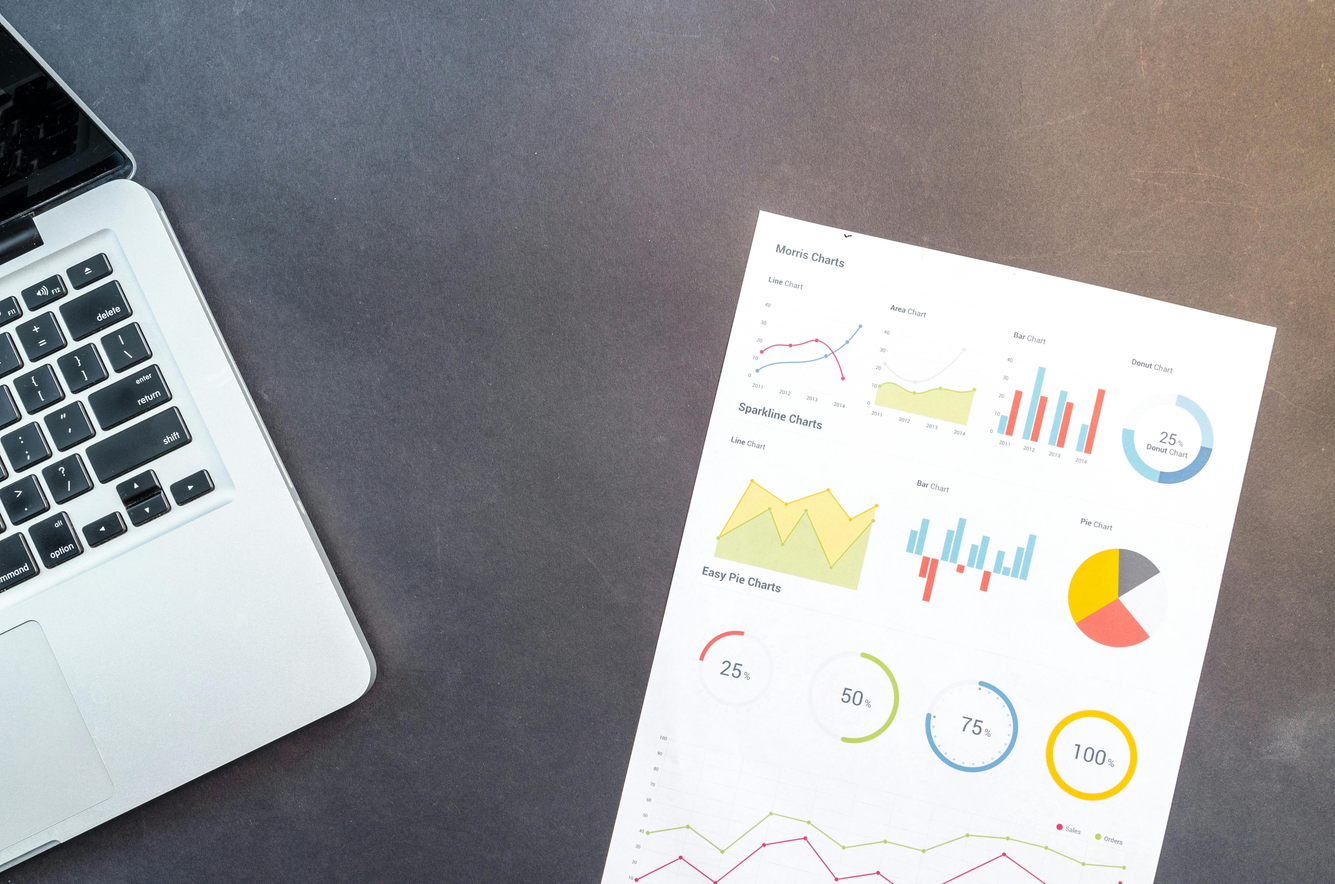
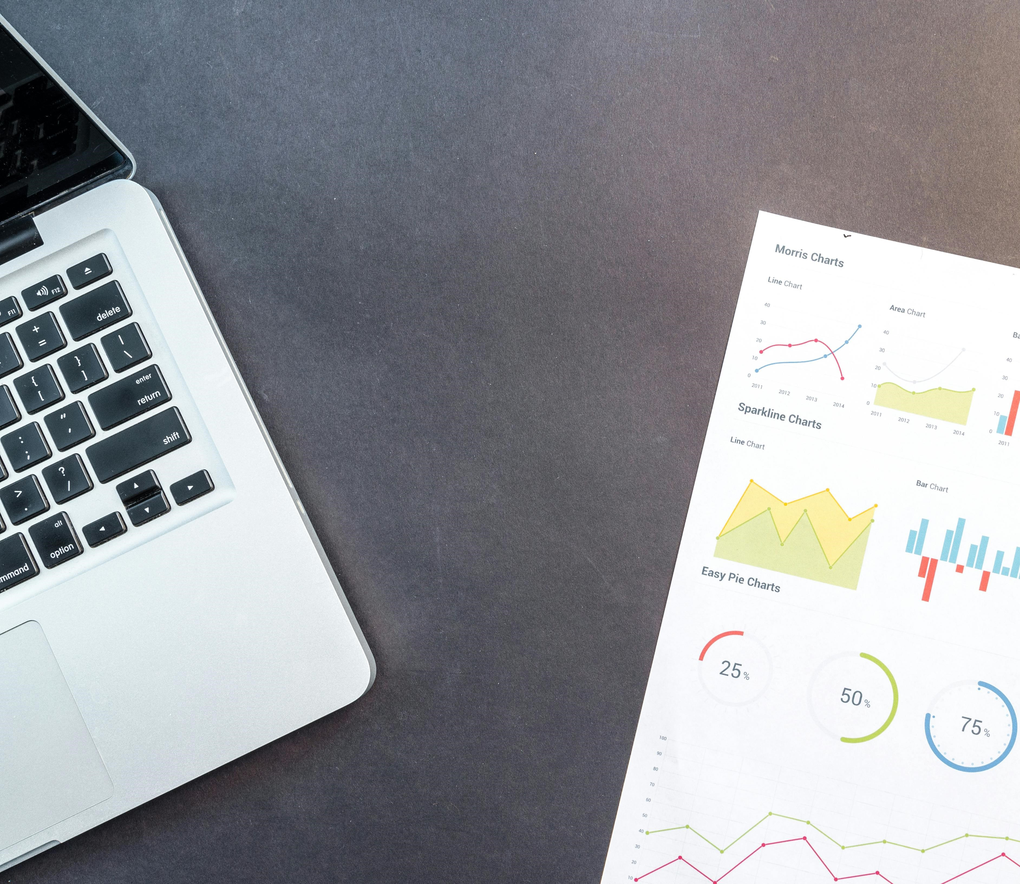
Changes related to: 1.bg change

diff --git a/survey_king_web_client/src/pages/Presentation/index.js b/survey_king_web_client/src/pages/Presentation/index.js
@@ -44,7 +44,7 @@ import routes from "routes";
 import footerRoutes from "footer.routes";
 
 // Images
-import bgImage from "assets/images/bg5.jpg";
+import bgImage from "assets/images/bg9.jpg";
 
 function Presentation() {
   return (
@@ -69,7 +69,6 @@ function Presentation() {
             <MKTypography
               variant="h1"
               color="white"
-              mt={-22}
               mb={1}
               sx={({ breakpoints, typography: { size } }) => ({
                 [breakpoints.down("md")]: {
@@ -84,7 +83,7 @@ function Presentation() {
               color="black"
               textAlign="center"
               px={{ xs: 6, lg: 12 }}
-              mt={-14}
+
             >
               Free online survey software to collect and visualize data.
             </MKTypography>
